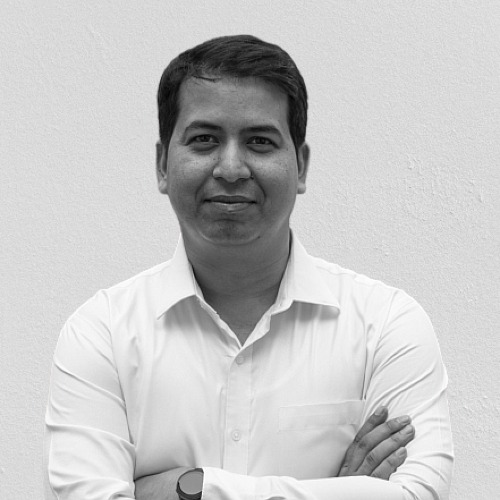
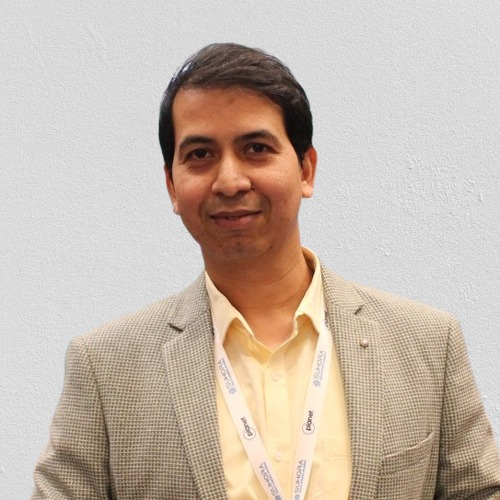
team page updated

diff --git a/frontend/src/constant/teamData.ts b/frontend/src/constant/teamData.ts
@@ -1,4 +1,4 @@
-import krishanu from '../assets/img/teams/Krishanu.jpg'
+import krishanu from '../assets/img/teams/Krishanu_old.jpg'
 import rupesh from '../assets/img/teams/rupesh.jpg'
 import amit from '../assets/img/teams/Amit.jpg'
 import ruby from '../assets/img/teams/Ruby.jpg'
@@ -252,7 +252,6 @@ const employees: Employee[] = [
             github: 'https://github.com/johndoe'
         }
     },
-
     {
         name: 'Vishal Kumar',
         designation: 'Web Developer',
